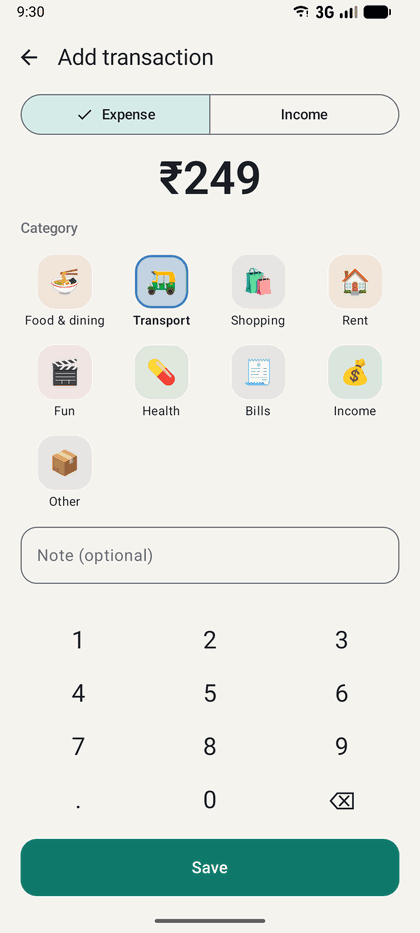
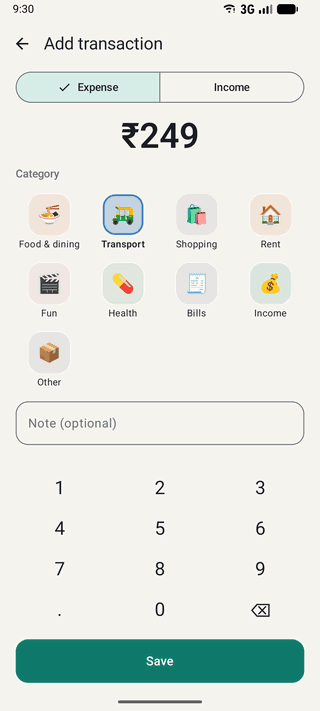
Make the Kharcha screenshots a compact horizontal scroller
Four tall screenshots in a grid swallowed the panel — roughly 700px of
vertical space on a phone and 450px on desktop.

- .shots is now a flex strip with overflow-x: auto and x scroll-snap,
  so extra screenshots cost horizontal room instead of vertical.
- Cards are 150px wide (132px on phones), putting each shot at 331px
  tall instead of ~450px. On a phone the third shot is half-visible at
  the edge, which signals the strip scrolls without needing a caption.
- Regenerated at 320x711 to match the smaller display size: 84KB -> 60KB
  for the set.
- The strip is focusable with an aria-label so it can be reached and
  scrolled by keyboard, and has a styled thin scrollbar.

Verified at 320/375/768/1280 with the card open: zero unclipped page
overflow. It scrolls on phones (260-310px of travel) and all four fit
without scrolling from tablet up.

diff --git a/css/style.css b/css/style.css
@@ -1370,33 +1370,68 @@ svg {
 }
 
 .shots {
-  display: grid;
-  /* minmax(0, 1fr) rather than a px minimum: these can never force a track
-     wider than the card, whatever the screen. */
-  grid-template-columns: repeat(4, minmax(0, 1fr));
-  gap: var(--sp-4);
-  max-width: 880px;
+  /* Horizontal strip rather than a grid: four phone screenshots stacked
+     vertically swallowed the whole panel. Scrolls sideways when they
+     don't all fit. */
+  display: flex;
+  gap: var(--sp-3);
+  margin: 0;
+  padding-bottom: var(--sp-3);
+  overflow-x: auto;
+  overscroll-behavior-x: contain;
+  scroll-snap-type: x proximity;
+  scrollbar-width: thin;
+  scrollbar-color: var(--accent-tint-2) transparent;
+}
+
+.shots:focus-visible {
+  outline: 2px solid var(--accent-bright);
+  outline-offset: 4px;
+  border-radius: var(--r-sm);
+}
+
+.shots::-webkit-scrollbar {
+  height: 6px;
+}
+
+.shots::-webkit-scrollbar-track {
+  border-radius: var(--r-pill);
+  background: rgb(255 255 255 / 0.05);
+}
+
+.shots::-webkit-scrollbar-thumb {
+  border-radius: var(--r-pill);
+  background: var(--accent-tint-2);
+}
+
+.shots::-webkit-scrollbar-thumb:hover {
+  background: var(--accent);
+}
+
+.shot {
+  flex: 0 0 150px;
+  scroll-snap-align: start;
 }
 
 .shot img {
   display: block;
   width: 100%;
   height: auto;
-  border-radius: 12px;
+  border-radius: 10px;
   border: 1px solid rgb(255 255 255 / 0.12);
-  box-shadow: 0 10px 26px rgb(0 0 0 / 0.45);
+  box-shadow: 0 8px 20px rgb(0 0 0 / 0.45);
   /* The app is light-themed, so it is dimmed slightly to sit in a dark
      page and comes up to full brightness on hover. */
-  filter: saturate(0.94) brightness(0.9);
+  filter: saturate(0.94) brightness(0.88);
   transition: transform var(--t-mid), filter var(--t-mid),
     box-shadow var(--t-mid), border-color var(--t-mid);
 }
 
 .shot:hover img {
-  transform: translateY(-5px);
+  transform: translateY(-4px);
   filter: none;
   border-color: var(--accent-tint-2);
-  box-shadow: 0 18px 36px rgb(0 0 0 / 0.55), 0 0 0 1px var(--accent-tint-2);
+  box-shadow: 0 16px 32px rgb(0 0 0 / 0.55), 0 0 0 1px var(--accent-tint-2);
 }
 
 .shot__cap {
@@ -1404,7 +1439,7 @@ svg {
   margin-top: var(--sp-2);
   text-align: center;
   font-family: var(--font-mono);
-  font-size: var(--fs-xs);
+  font-size: 0.6875rem;
   letter-spacing: 0.06em;
   color: var(--text-mute);
 }
@@ -1859,10 +1894,9 @@ svg {
     top: 0;
   }
 
-  /* Four phone screenshots are unreadable at phone width; two is legible */
-  .shots {
-    grid-template-columns: repeat(2, minmax(0, 1fr));
-    gap: var(--sp-3);
+  /* Narrower cards on a phone so more than one is visible at a time */
+  .shot {
+    flex-basis: 132px;
   }
 
   .nav__brandtext {

diff --git a/index.html b/index.html
@@ -460,13 +460,18 @@
 
               <div class="pd__block pd__block--wide">
                 <h4 class="pd__h">Screens</h4>
-                <ul class="shots">
+                <ul
+                  class="shots"
+                  tabindex="0"
+                  role="group"
+                  aria-label="Kharcha app screenshots — scroll sideways for more"
+                >
                   <li class="shot">
                     <img
                       src="assets/kharcha/home.png"
                       alt="Kharcha home screen: October spend of 18,048 rupees, a monthly budget bar at 60% used, and a list of recent transactions grouped by day"
-                      width="420"
-                      height="933"
+                      width="320"
+                      height="711"
                       loading="lazy"
                       decoding="async"
                     />
@@ -476,8 +481,8 @@
                     <img
                       src="assets/kharcha/insights.png"
                       alt="Kharcha insights screen: a donut chart of spending by category with rent, shopping and bills listed by amount and percentage"
-                      width="420"
-                      height="933"
+                      width="320"
+                      height="711"
                       loading="lazy"
                       decoding="async"
                     />
@@ -487,8 +492,8 @@
                     <img
                       src="assets/kharcha/add.png"
                       alt="Kharcha add-transaction screen: an expense of 249 rupees with a category picker and a numeric keypad"
-                      width="420"
-                      height="933"
+                      width="320"
+                      height="711"
                       loading="lazy"
                       decoding="async"
                     />
@@ -498,8 +503,8 @@
                     <img
                       src="assets/kharcha/trends.png"
                       alt="Kharcha trends view: category totals above a six-month bar chart of monthly spending"
-                      width="420"
-                      height="933"
+                      width="320"
+                      height="711"
                       loading="lazy"
                       decoding="async"
                     />

diff --git a/assets/README.md b/assets/README.md
@@ -9,7 +9,7 @@ render — the page has fallbacks — but each file below unlocks something.
 | `profile.jpg` | Hero portrait. **Already added** (600×600, cropped from the original). | Square, 600×600+ |
 | `resume.pdf` | Wires up the "Download résumé" link in the hero. | — |
 | `og-image.png` | Preview card when the site is shared on LinkedIn/X/WhatsApp. | 1200×630 |
-| `kharcha/*.png` | Kharcha app screenshots in the Projects section. **Already added** (4 × 420×933). | — |
+| `kharcha/*.png` | Kharcha app screenshots in the Projects section. **Already added** (4 × 320×711). | — |
 | `favicon.svg` | Browser tab icon. **Already included.** | — |
 
 ## Replacing `profile.jpg`
@@ -36,8 +36,13 @@ Keep `.edu__credit` in `index.html` for as long as you keep this photo.
 
 `kharcha/home.png`, `insights.png`, `add.png` and `trends.png` come from the
 Kharcha repo's `docs/store-assets/` (the Play Store listing assets), resized
-to 420×933 and quantised to a 128-colour palette — about 21 KB each instead
+to 320×711 and quantised to a 128-colour palette — about 15 KB each instead
 of 210 KB, with UI text still crisp.
 
-They are lazy-loaded and sit inside a collapsed `<details>`, so nothing is
-fetched until someone opens the Kharcha card.
+They sit in a horizontal scroll strip (`.shots`) inside a collapsed
+`<details>`, and are lazy-loaded — so nothing is fetched until someone opens
+the Kharcha card, and off-screen shots wait until they're scrolled to.
+
+To add one, drop a PNG in here and copy a `<li class="shot">` in the Kharcha
+panel. The strip scrolls rather than wrapping, so extra shots cost no
+vertical space.
